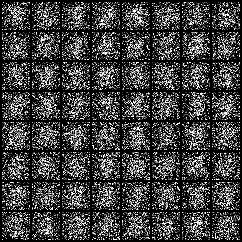
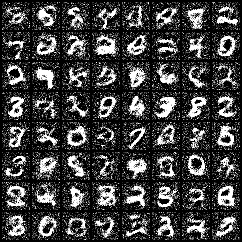
train nice with warm up

diff --git a/NICE-master/nice_pt.py b/NICE-master/nice_pt.py
@@ -93,8 +93,8 @@ class Scaling(nn.Module):
 """NICE main model.
 """
 class NICE_PT(nn.Module):
-    def __init__(self, prior, coupling,
-        in_out_dim, mid_dim, hidden, mask_config, device):
+    def __init__(self, warmup_prior, prior, coupling,
+        in_out_dim, mid_dim, hidden, mask_config, warm_up, device):
         """Initialize a NICE.
 
         Args:
@@ -106,6 +106,7 @@ class NICE_PT(nn.Module):
             mask_config: 1 if transform odd units, 0 if transform even units.
         """
         super(NICE_PT, self).__init__()
+        self.warmup_prior = warmup_prior
         self.prior = prior
         self.in_out_dim = in_out_dim
 
@@ -118,6 +119,7 @@ class NICE_PT(nn.Module):
         self.scaling = Scaling(in_out_dim).to(device)
         self.sigmoid_projection = sigmoid_projection().to(device)
         self.device = device
+        self.warm_up = warm_up
 
     def g(self, z):
         """Transformation g: Z -> X (inverse of f).
@@ -127,7 +129,10 @@ class NICE_PT(nn.Module):
         Returns:
             transformed tensor in data space X.
         """
-        x = self.sigmoid_projection.inverse(z)
+        if self.warm_up:
+            x = z
+        else:
+            x = self.sigmoid_projection.inverse(z)
         x, _ = self.scaling(x, reverse=True)
 
         for i in reversed(range(len(self.coupling))):
@@ -143,10 +148,25 @@ class NICE_PT(nn.Module):
             transformed tensor in latent space Z.
         """
         for i in range(len(self.coupling)):
+            # Check for NaN values
+            nan_check = torch.isnan(x)
+            contains_nan = nan_check.any()
+            if contains_nan.item():
+                print("\nnan value before {}".format(i))
+                sys.exit()
             x = self.coupling[i](x)
+        # Check for NaN values
+        nan_check = torch.isnan(x)
+        contains_nan = nan_check.any()
+        if contains_nan.item():
+            print("\nnan value before scaling", contains_nan.item())
+            sys.exit()
         x, log_scale = self.scaling(x)
-        x, log_sigmoid = self.sigmoid_projection(x)
-        return x, log_scale, log_sigmoid
+        if self.warm_up:
+            return x, log_scale
+        else:
+            x, log_sigmoid = self.sigmoid_projection(x)
+            return x, log_scale, log_sigmoid
 
     def log_prob(self, x):
         """Computes data log-likelihood.
@@ -158,11 +178,14 @@ class NICE_PT(nn.Module):
         Returns:
             log-likelihood of input.
         """
-        z, log_scale, log_sigmoid = self.f(x)
-        log_ll = self.prior(z)
-        #log_ll = torch.sum(self.prior.log_prob(z), dim=1)
-        #print(log_ll.mean(), log_scale.mean(), log_sigmoid.mean())
-        return log_ll + log_scale + log_sigmoid
+        if self.warm_up:
+            z, log_scale = self.f(x)
+            log_ll = torch.sum(self.warmup_prior.log_prob(z), dim=1)
+            return log_ll + log_scale
+        else:
+            z, log_scale, log_sigmoid = self.f(x)
+            log_ll = self.prior(z)
+            return log_ll + log_scale + log_sigmoid
 
     def sample(self, size):
         """Generates samples.
@@ -172,7 +195,10 @@ class NICE_PT(nn.Module):
         Returns:
             samples from the data space X.
         """
-        z = self.prior.sample(size).to(self.device)
+        if self.warm_up:
+            z = self.warmup_prior.sample((size, self.in_out_dim)).to(self.device)
+        else:
+            z = self.prior.sample(size).to(self.device)
         return self.g(z)
 
     def forward(self, x):
@@ -184,3 +210,10 @@ class NICE_PT(nn.Module):
             log-likelihood of input.
         """
         return self.log_prob(x)
+
+    def end_warmup(self):
+        self.warm_up = False
+        for param in self.coupling.parameters():
+            param.requires_grad = False
+        for param in self.scaling.parameters():
+            param.requires_grad = False

diff --git a/NICE-master/train_pt.py b/NICE-master/train_pt.py
@@ -70,7 +70,9 @@ def main(args):
     #         torch.tensor(0.).to(device), torch.tensor(1.).to(device))
     # elif latent == 'logistic':
     #     prior = utils.StandardLogistic()
-
+    latent = 'polyatree'
+    warmup_prior = torch.distributions.Normal(
+             torch.tensor(0.).to(device), torch.tensor(1.).to(device))
     prior = PolyaTree(L = 4, dim = full_dim, device = device)
 
     filename = '%s_' % dataset \
@@ -80,18 +82,24 @@ def main(args):
                + 'md%d_' % mid_dim \
                + 'hd%d_' % hidden
 
-    flow = nice_pt.NICE_PT(prior=prior,
+    flow = nice_pt.NICE_PT(warmup_prior=warmup_prior,
+                     prior=prior,
                      coupling=coupling,
                      in_out_dim=full_dim,
                      mid_dim=mid_dim,
                      hidden=hidden,
-                     mask_config=mask_config, device=device).to(device)
-    optimizer = torch.optim.Adam(
+                     mask_config=mask_config, warm_up = True, device=device).to(device)
+    warmup_optimizer = torch.optim.Adam(
         flow.parameters(), lr=lr, betas=(momentum, decay), eps=1e-4)
+    optimizer = torch.optim.Adam(filter(lambda p: p.requires_grad, flow.parameters()), lr=1e-2,
+                                 betas=(momentum, decay), eps=1e-4
+                                 )
 
     total_iter = 0
     train = True
     running_loss = 0
+
+    warm_up = int(args.warm * max_iter)
 
     while train:
         for _, data in enumerate(trainloader, 1):
@@ -101,19 +109,28 @@ def main(args):
                 break
 
             total_iter += 1
-            optimizer.zero_grad()  # clear gradient tensors
+            if total_iter <= warm_up:
+                warmup_optimizer.zero_grad()  # clear gradient tensors
+            else:
+                optimizer.zero_grad()
 
             inputs, _ = data
             inputs = utils.prepare_data(
                 inputs, dataset, zca=zca, mean=mean).to(device)
 
             # log-likelihood of input minibatch
+            if total_iter == warm_up:
+                print('End warm up at iter %d' % total_iter)
+                flow.end_warmup()
             loss = -flow(inputs).mean()
             running_loss += float(loss)
 
             # backprop and update parameters
             loss.backward()
-            optimizer.step()
+            if total_iter <= warm_up:
+                warmup_optimizer.step()
+            else:
+                optimizer.step()
 
             if total_iter % 1000 == 0:
                 mean_loss = running_loss / 1000
@@ -126,7 +143,10 @@ def main(args):
 
                 flow.eval()  # set to inference mode
                 with torch.no_grad():
-                    z, _, _ = flow.f(inputs)
+                    if total_iter > warm_up:
+                        z, _, _ = flow.f(inputs)
+                    else:
+                        z, _ = flow.f(inputs)
                     z = z.to(device)
                     reconst = flow.g(z).cpu()
                     reconst = utils.prepare_data(
@@ -192,6 +212,7 @@ if __name__ == '__main__':
                         type=float,
                         default=0.999)
     parser.add_argument('--device', default='cpu', help='cuda or cpu.')
+    parser.add_argument('--warm', default=0.9, type=float)
     args = parser.parse_args()
     main(args)
 
